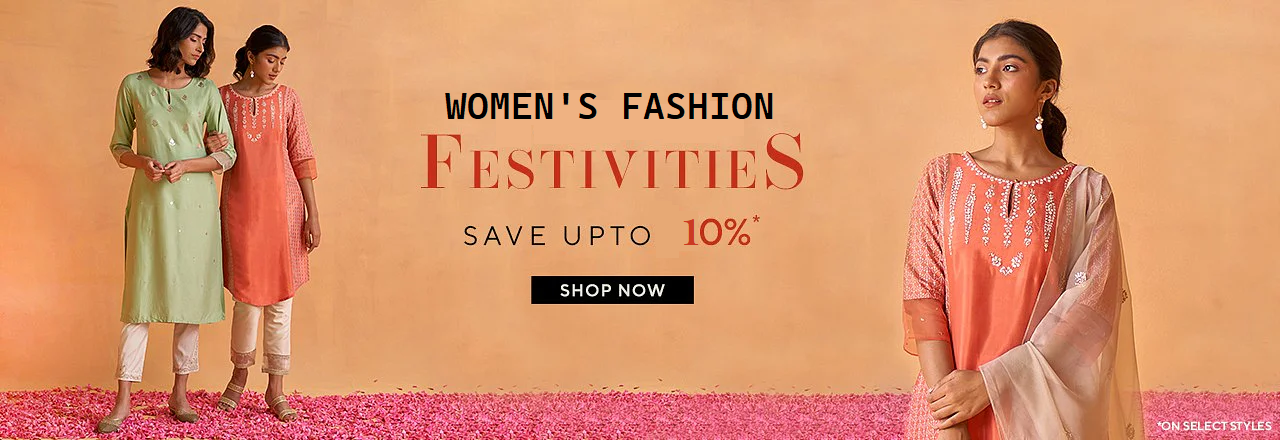
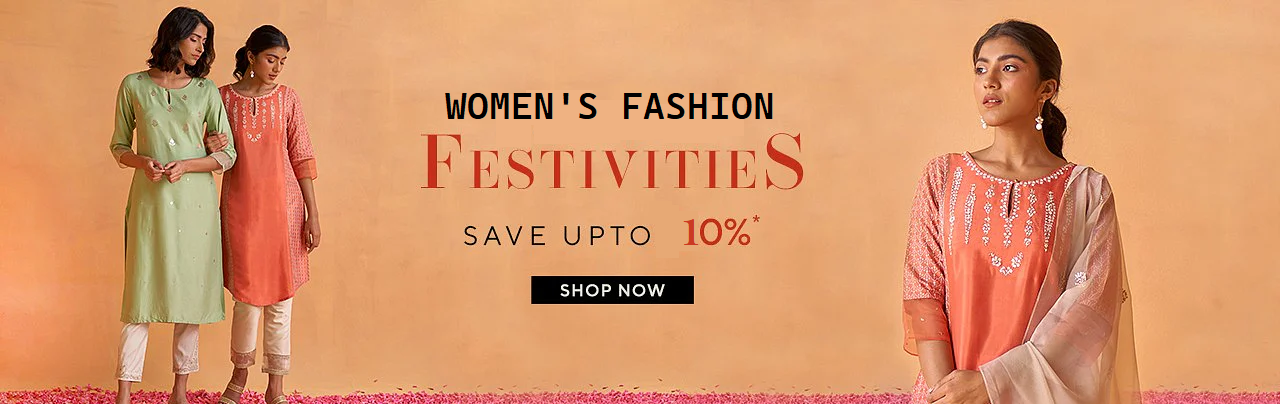
slider on home

Changed region(s): [[0.0, 0.0, 1.0, 1.0], [0.3125, 0.2079, 0.625, 0.7723]]

diff --git a/frontend/src/Pages/Home.jsx b/frontend/src/Pages/Home.jsx
@@ -1,8 +1,53 @@
 import React from "react";
 import { useNavigate } from "react-router-dom";
 import Faq from "../components/Faq";
-import { Box, Button, Flex, Heading, Image, Text } from "@chakra-ui/react";
-// import axios from "axios";
+import {
+  Box,
+  Button,
+  Flex,
+  Heading,
+  Icon,
+  Image,
+  Text,
+} from "@chakra-ui/react";
+import Slider from "react-slick";
+import { GrPrevious, GrNext } from "react-icons/gr";
+
+function SampleNextArrow(props) {
+  const { className, style, onClick } = props;
+  return (
+    <div
+      className={className}
+      style={{
+        ...style,
+        display: "block",
+        background: "black",
+        borderRadius: "50%",
+        transform: "translate(-60px)",
+        zIndex: 10,
+      }}
+      onClick={onClick}
+    />
+  );
+}
+
+function SamplePrevArrow(props) {
+  const { className, style, onClick } = props;
+  return (
+    <div
+      className={className}
+      style={{
+        ...style,
+        display: "block",
+        background: "black",
+        borderRadius: "50%",
+        transform: "translate(60px)",
+        zIndex: 10,
+      }}
+      onClick={onClick}
+    />
+  );
+}
 
 const Home = () => {
   const navigate = useNavigate();
@@ -10,9 +55,13 @@ const Home = () => {
   const settings = {
     dots: true,
     infinite: true,
-    speed: 500,
+    speed: 1000,
+    autoplay: true,
     slidesToShow: 1,
     slidesToScroll: 1,
+    pauseOnHover: true,
+    nextArrow: <SampleNextArrow />,
+    prevArrow: <SamplePrevArrow />,
   };
 
   const mensPage = () => {
@@ -28,11 +77,17 @@ const Home = () => {
 
   return (
     <Box w="100%" position="relative" top="65" pb="4rem">
-      <Box>
-        <Image w="100%" src="../.././assets/heroBanner1.png" />
-        <Image w="100%" src="../.././assets/heroBanner2.png" />
-        <Image w="100%" src="../.././assets/heroBanner3.jpg" />
-      </Box>
+      <Slider {...settings}>
+        <Box>
+          <Image w="100%" src="../.././assets/heroBanner1copy.png" />
+        </Box>
+        <Box>
+          <Image w="100%" src="../.././assets/heroBanner2.png" />
+        </Box>
+        <Box>
+          <Image w="100%" src="../.././assets/heroBanner3.jpg" />
+        </Box>
+      </Slider>
 
       <Box
         mt={{ base: "3rem", sm: "5rem", md: "5rem", lg: "8rem", xl: "10rem" }}

diff --git a/frontend/public/index.html b/frontend/public/index.html
@@ -15,6 +15,17 @@
       user's mobile device or desktop. See https://developers.google.com/web/fundamentals/web-app-manifest/
     -->
     <link rel="manifest" href="%PUBLIC_URL%/manifest.json" />
+    <link
+      rel="stylesheet"
+      type="text/css"
+      charset="UTF-8"
+      href="https://cdnjs.cloudflare.com/ajax/libs/slick-carousel/1.6.0/slick.min.css"
+    />
+    <link
+      rel="stylesheet"
+      type="text/css"
+      href="https://cdnjs.cloudflare.com/ajax/libs/slick-carousel/1.6.0/slick-theme.min.css"
+    />
     <!--
       Notice the use of %PUBLIC_URL% in the tags above.
       It will be replaced with the URL of the `public` folder during the build.
